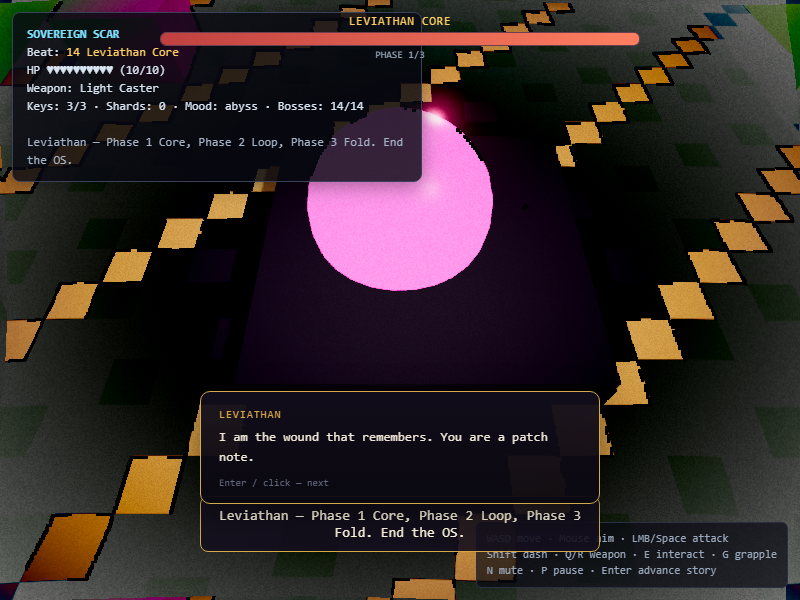
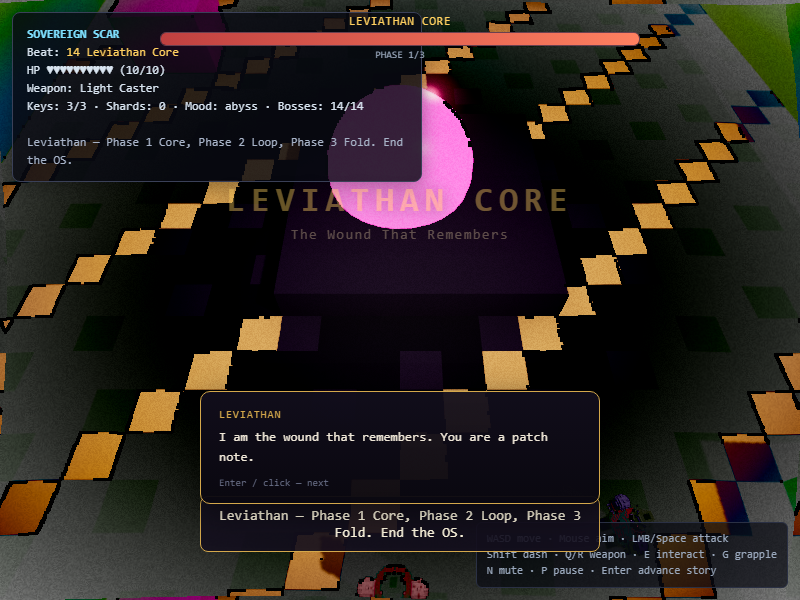
feat(W3): persistent lock-and-key state + HUD key readout
sovereignProgress.dungeons[id] schema, write-through cached keyStore,
persistent key pickups, New Game reset coverage, keys unit spec +
reload-persistence e2e asserts.

Suite 581/581.

diff --git a/src/game/world/keys.js b/src/game/world/keys.js
@@ -1,0 +1,132 @@
+// W3: per-dungeon lock-and-key state, persisted under
+// sovereignProgress.dungeons[dungeonId] (read-modify-write — G13: the
+// top-level save only shallow-merges).
+//
+// Schema: dungeons[id] = {
+//   smallKeys: number, bossKey: bool,
+//   opened: [doorKey], visited: [roomId], taken: [pickupId],
+//   mapPickup: bool,
+// }
+
+import { loadSovereignProgress, saveSovereignProgress } from '../kernel/progress.js';
+
+const EMPTY = () => ({
+    smallKeys: 0,
+    bossKey: false,
+    opened: [],
+    visited: [],
+    taken: [],
+    mapPickup: false,
+});
+
+export function getDungeonState(dungeonId) {
+    const all = loadSovereignProgress().dungeons || {};
+    return { ...EMPTY(), ...(all[dungeonId] || {}) };
+}
+
+function patchDungeon(dungeonId, patch) {
+    const all = loadSovereignProgress().dungeons || {};
+    const cur = { ...EMPTY(), ...(all[dungeonId] || {}) };
+    const next = { ...cur, ...patch };
+    saveSovereignProgress({ dungeons: { ...all, [dungeonId]: next } });
+    return next;
+}
+
+export function grantSmallKey(dungeonId) {
+    const s = getDungeonState(dungeonId);
+    return patchDungeon(dungeonId, { smallKeys: s.smallKeys + 1 });
+}
+
+/** @returns {boolean} true if a key was available and spent */
+export function useSmallKey(dungeonId) {
+    const s = getDungeonState(dungeonId);
+    if (s.smallKeys <= 0) return false;
+    patchDungeon(dungeonId, { smallKeys: s.smallKeys - 1 });
+    return true;
+}
+
+export function grantBossKey(dungeonId) {
+    return patchDungeon(dungeonId, { bossKey: true });
+}
+
+export function hasBossKey(dungeonId) {
+    return getDungeonState(dungeonId).bossKey === true;
+}
+
+export function openDoor(dungeonId, doorKey) {
+    const s = getDungeonState(dungeonId);
+    if (s.opened.includes(doorKey)) return s;
+    return patchDungeon(dungeonId, { opened: [...s.opened, doorKey] });
+}
+
+export function isDoorOpen(dungeonId, doorKey) {
+    return getDungeonState(dungeonId).opened.includes(doorKey);
+}
+
+export function markVisited(dungeonId, roomId) {
+    const s = getDungeonState(dungeonId);
+    if (s.visited.includes(roomId)) return s;
+    return patchDungeon(dungeonId, { visited: [...s.visited, roomId] });
+}
+
+export function isPickupTaken(dungeonId, pickupId) {
+    return getDungeonState(dungeonId).taken.includes(pickupId);
+}
+
+export function markPickupTaken(dungeonId, pickupId) {
+    const s = getDungeonState(dungeonId);
+    if (s.taken.includes(pickupId)) return s;
+    return patchDungeon(dungeonId, { taken: [...s.taken, pickupId] });
+}
+
+export function markMapPickup(dungeonId) {
+    return patchDungeon(dungeonId, { mapPickup: true });
+}
+
+/**
+ * Adapter matching createDungeon's keyStore interface, persistent. Reads
+ * come from an in-memory cache (the HUD polls every frame); every mutation
+ * writes through to sovereignProgress and refreshes the cache.
+ */
+export function makeKeyStore(dungeonId) {
+    let cache = getDungeonState(dungeonId);
+    const refresh = () => { cache = getDungeonState(dungeonId); };
+    return {
+        isOpen: (dk) => cache.opened.includes(dk),
+        open: (dk) => { openDoor(dungeonId, dk); refresh(); },
+        trySpendSmallKey: () => { const ok = useSmallKey(dungeonId); refresh(); return ok; },
+        grantSmallKey: () => { grantSmallKey(dungeonId); refresh(); },
+        hasBossKey: () => cache.bossKey === true,
+        grantBossKey: () => { grantBossKey(dungeonId); refresh(); },
+        smallKeys: () => cache.smallKeys,
+        isPickupTaken: (pid) => cache.taken.includes(pid),
+        markPickupTaken: (pid) => { markPickupTaken(dungeonId, pid); refresh(); },
+        markVisited: (roomId) => { markVisited(dungeonId, roomId); refresh(); },
+        visited: () => cache.visited.slice(),
+    };
+}
+
+/**
+ * Persistent key pickup: skipped entirely if already taken; granting marks
+ * it taken so it never respawns. type: 'small' | 'boss'.
+ */
+export function addKeyPickup(level, dungeonId, pickupId, worldPos, type = 'small') {
+    // Route through the level's keyStore when present so its cache stays
+    // coherent (module-level writes would leave cached reads stale).
+    const store = level.keyStore || makeKeyStore(dungeonId);
+    if (store.isPickupTaken(pickupId)) return null;
+    return level.addPickup(worldPos, {
+        color: type === 'boss' ? 0xff5060 : 0xffd060,
+        label: type === 'boss' ? 'Boss key' : 'Small key',
+        onPickup(game) {
+            store.markPickupTaken(pickupId);
+            if (type === 'boss') {
+                store.grantBossKey();
+                game.hud?.toast?.('Boss key acquired');
+            } else {
+                store.grantSmallKey();
+                game.hud?.toast?.('Small key acquired');
+            }
+        },
+    });
+}

diff --git a/src/game/world/room-graph.js b/src/game/world/room-graph.js
@@ -15,6 +15,7 @@ import { stampMap } from '../assets/props.js';
 import { CRUST_COLORS, ABYSS_COLORS, MOOD_PRESETS } from '../assets/palettes.js';
 import { Enemy, DummyTarget } from '../enemy.js';
 import { sfx } from '../../audio/synth.js';
+import { makeKeyStore } from './keys.js';
 
 export const ROOM_STRIDE = 64;
 export const DOOR_WIDTH = 2;
@@ -171,19 +172,9 @@ export function createDungeon(ctx, def, opts = {}) {
     const wallColor = def.wallColor
         || (def.mood === 'abyss' ? ABYSS_COLORS.abyssWall : CRUST_COLORS.wall);
 
-    // Session-local lock store (replaced by the persistent one in W3).
-    const localOpened = new Set();
-    let localSmallKeys = 0;
-    let localBossKey = false;
-    const keyStore = opts.keyStore || {
-        isOpen: (dk) => localOpened.has(dk),
-        open: (dk) => localOpened.add(dk),
-        trySpendSmallKey: () => (localSmallKeys > 0 ? (localSmallKeys--, true) : false),
-        grantSmallKey: () => { localSmallKeys += 1; },
-        hasBossKey: () => localBossKey,
-        grantBossKey: () => { localBossKey = true; },
-        smallKeys: () => localSmallKeys,
-    };
+    // W3: persistent per-dungeon lock state by default (opts.keyStore is a
+    // test seam).
+    const keyStore = opts.keyStore || makeKeyStore(def.id);
 
     const baked = new Map(); // roomId → { built, plugs: Map(dk→built), enemies, disposers }
     const systems = [];
@@ -299,6 +290,7 @@ export function createDungeon(ctx, def, opts = {}) {
             if (otherId === bossRoomId && bossSpawned) continue;
             if (gridDistance(def.rooms[otherId], room) >= 2) disposeRoom(otherId);
         }
+        keyStore.markVisited?.(roomId); // W6 map data
         if (api.onRoomEnter) api.onRoomEnter(roomId, game);
         if (room.onEnter && game) room.onEnter(game, room);
     }

diff --git a/src/game/levels/dev-test-dungeon.js b/src/game/levels/dev-test-dungeon.js
@@ -2,6 +2,7 @@
 // Exercises: open-door transition (W1/W2), locked door + key + boss door (W3).
 
 import { createDungeon } from '../world/room-graph.js';
+import { addKeyPickup } from '../world/keys.js';
 import { CRUST_COLORS } from '../assets/palettes.js';
 
 export const TEST_DUNGEON_DEF = {
@@ -61,15 +62,7 @@ export const TEST_DUNGEON_DEF = {
 
 export function loadTestDungeon(ctx) {
     const level = createDungeon(ctx, TEST_DUNGEON_DEF);
-    // W1 test affordance: the hall contains one small key pickup.
-    const hallOrigin = { x: 0, z: -64 };
-    level.addPickup({ x: hallOrigin.x + 4, y: 1.2, z: hallOrigin.z }, {
-        color: 0xffd060,
-        label: 'Small key',
-        onPickup(game) {
-            level.keyStore.grantSmallKey();
-            game.hud?.toast?.('Small key acquired');
-        },
-    });
+    // W3: persistent small-key pickup in the hall (never respawns once taken)
+    addKeyPickup(level, TEST_DUNGEON_DEF.id, 'hall-key', { x: 4, y: 1.2, z: -64 }, 'small');
     return level;
 }

diff --git a/src/game/index.js b/src/game/index.js
@@ -716,6 +716,9 @@ function frame() {
         weapon: wpn.name || player.inventory.activeWeapon,
         memoryKeys: player.inventory.memoryKeyCount,
         scarShards: player.inventory.scarShards,
+        // W3: small-key count while inside a room-graph dungeon
+        smallKeys: game.level?.keyStore ? game.level.keyStore.smallKeys() : null,
+        hasBossKey: game.level?.keyStore ? game.level.keyStore.hasBossKey() : false,
         mood: mood.mood,
         beatId: game.levelId,
         beatName: game.level?.name || getLevel(game.levelId).name,

diff --git a/src/game/kernel/progress.js b/src/game/kernel/progress.js
@@ -13,6 +13,9 @@ const DEFAULT_SOVEREIGN = () => ({
     deaths: 0,
     bossesDefeated: [],
     mood: 'crust',
+    // Phase W: per-dungeon key/door/visited state (W3) — present in the
+    // default so New Game resets it.
+    dungeons: {},
 });
 
 export function loadSovereignProgress() {

diff --git a/src/game/ui/hud.js b/src/game/ui/hud.js
@@ -224,6 +224,7 @@ export class HUD {
             `HP ${hearts} (${Number.isInteger(Number(hp)) ? hp : Number(hp).toFixed(1)}/${max})\n` +
             `Weapon: ${state.weapon || '—'}\n` +
             `Keys: ${keys}/3 · Shards: ${state.scarShards || 0} · Mood: ${state.mood || 'crust'}` +
+            (state.smallKeys != null ? `\n<span style="color:#ffd060">Small keys: ${state.smallKeys}${state.hasBossKey ? ' · BOSS KEY' : ''}</span>` : '') +
             (bosses != null ? ` · Bosses: ${bosses}/14` : '') +
             (state.showTimer ? `\nTime: ${Math.floor((state.playTime || 0) / 60)}:${String(Math.floor((state.playTime || 0) % 60)).padStart(2, '0')}` : '') +
             (state.paused ? `\n<span style="color:#ff7a90">PAUSED</span>` : '') +

diff --git a/BUILD_LOG.md b/BUILD_LOG.md
@@ -128,6 +128,8 @@ Per [../Sovereign-Scar-Builder-Guide.md](../Sovereign-Scar-Builder-Guide.md). Ba
 - W2: `CameraRig.setBounds` — look-at clamp with fov/aspect-derived margins, midpoint resolution for small rooms, lerped look-at (transitions pan instead of snapping); frame loop feeds `level.cameraBounds`.
 - Visual-sanity hardening: double-sample max with 600 ms settle (first frames after a load can read dark — beat-06 was bimodal 27/44); Obsidian Arachnid albedo lifted from near-black. 3× report runs stable, all levels in band. Suite **554/554**.
 
+- W3: `src/game/world/keys.js` — per-dungeon `{smallKeys, bossKey, opened[], visited[], taken[], mapPickup}` persisted under `sovereignProgress.dungeons[id]` (read-modify-write per G13); `makeKeyStore` write-through cache adapter (HUD polls per frame); `addKeyPickup` persistent key pickups (never respawn); createDungeon defaults to the persistent store; HUD shows small-key count + BOSS KEY inside dungeons; `dungeons: {}` added to DEFAULT_SOVEREIGN so New Game clears it. `tests/game/keys.spec.mjs` (24 asserts) + reload-persistence asserts in world-e2e. Suite **581/581**.
+
 ## Known remaining polish (not blockers)
 - Character smear still ±X-biased (engine side-view heritage)
 - Boss fights are arena-scripted phases (not full cinematic cutscenes / unique OST stems)